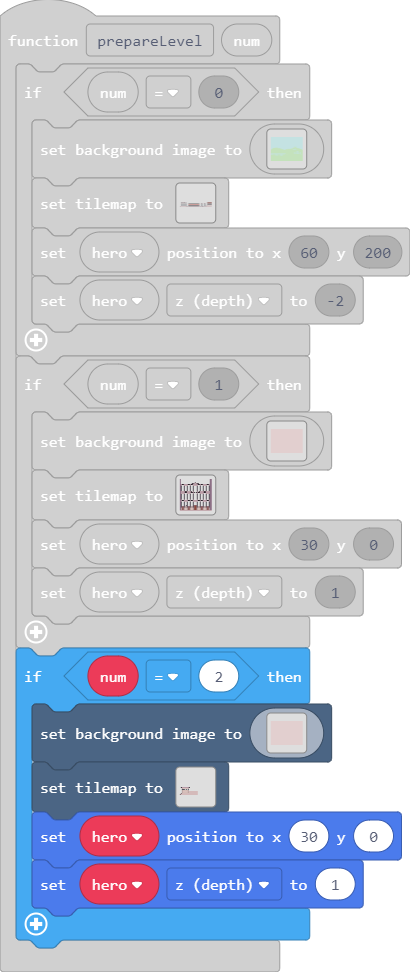
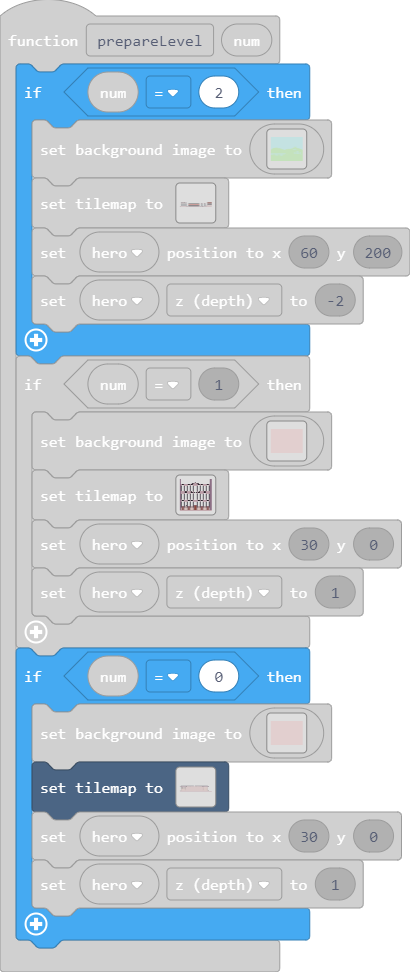
altar

Changed region(s): [[0.0585, 0.6481, 0.9951, 0.9568], [0.0293, 0.0617, 0.761, 0.4012]]

diff --git a/main.ts b/main.ts
@@ -1608,7 +1608,7 @@ controller.right.onEvent(ControllerButtonEvent.Released, function () {
     )
 })
 function prepareLevel (num: number) {
-    if (num == 0) {
+    if (num == 2) {
         scene.setBackgroundImage(img`
 9 9 9 9 9 9 9 9 9 9 9 9 9 9 9 9 9 9 9 9 9 9 9 9 9 9 9 9 9 9 9 9 9 9 9 9 9 9 9 9 9 9 9 9 9 9 9 9 9 9 9 9 9 9 9 9 9 9 9 9 9 9 9 9 9 9 9 9 9 9 9 9 9 9 9 9 9 9 9 9 9 9 9 9 9 9 9 9 9 9 9 9 9 9 9 9 9 9 9 9 9 9 9 9 9 9 9 9 9 9 9 9 9 9 9 9 9 9 9 9 9 9 9 9 9 9 9 9 9 9 9 9 9 9 9 9 9 9 9 9 9 9 9 9 9 9 9 9 9 9 9 9 9 9 9 9 9 9 9 9 
 9 9 9 9 9 9 9 9 9 9 9 9 9 9 9 9 9 9 9 9 9 9 9 9 9 9 9 9 9 9 9 9 9 9 9 9 9 9 9 9 9 9 9 9 9 9 9 9 9 9 9 9 9 9 9 9 9 9 9 9 9 9 9 9 9 9 9 9 9 9 9 9 9 9 9 9 9 9 9 9 9 9 9 9 9 9 9 9 9 9 9 9 9 9 9 9 9 9 9 9 9 9 9 9 9 9 9 9 9 9 9 9 9 9 9 9 9 9 9 9 9 9 9 9 9 9 9 9 9 9 9 9 9 9 9 9 9 9 9 9 9 9 9 9 9 9 9 9 9 9 9 9 9 9 9 9 9 9 9 9 
@@ -1922,7 +1922,7 @@ function prepareLevel (num: number) {
         hero.setPosition(30, 0)
         hero.z = 1
     }
-    if (num == 2) {
+    if (num == 0) {
         scene.setBackgroundImage(img`
 3 3 3 3 3 3 3 3 3 3 3 3 3 3 3 3 3 3 3 3 3 3 3 3 3 3 3 3 3 3 3 3 3 3 3 3 3 3 3 3 3 3 3 3 3 3 3 3 3 3 3 3 3 3 3 3 3 3 3 3 3 3 3 3 3 3 3 3 3 3 3 3 3 3 3 3 3 3 3 3 3 3 3 3 3 3 3 3 3 3 3 3 3 3 3 3 3 3 3 3 3 3 3 3 3 3 3 3 3 3 3 3 3 3 3 3 3 3 3 3 3 3 3 3 3 3 3 3 3 3 3 3 3 3 3 3 3 3 3 3 3 3 3 3 3 3 3 3 3 3 3 3 3 3 3 3 3 3 3 3 
 3 3 3 3 3 3 3 3 3 3 3 3 3 3 3 3 3 3 3 3 3 3 3 3 3 3 3 3 3 3 3 3 3 3 3 3 3 3 3 3 3 3 3 3 3 3 3 3 3 3 3 3 3 3 3 3 3 3 3 3 3 3 3 3 3 3 3 3 3 3 3 3 3 3 3 3 3 3 3 3 3 3 3 3 3 3 3 3 3 3 3 3 3 3 3 3 3 3 3 3 3 3 3 3 3 3 3 3 3 3 3 3 3 3 3 3 3 3 3 3 3 3 3 3 3 3 3 3 3 3 3 3 3 3 3 3 3 3 3 3 3 3 3 3 3 3 3 3 3 3 3 3 3 3 3 3 3 3 3 3 
@@ -2046,24 +2046,24 @@ function prepareLevel (num: number) {
 3 3 3 3 3 3 3 3 3 3 3 3 3 3 3 3 3 3 3 3 3 3 3 3 3 3 3 3 3 3 3 3 3 3 3 3 3 3 3 3 3 3 3 3 3 3 3 3 3 3 3 3 3 3 3 3 3 3 3 3 3 3 3 3 3 3 3 3 3 3 3 3 3 3 3 3 3 3 3 3 3 3 3 3 3 3 3 3 3 3 3 3 3 3 3 3 3 3 3 3 3 3 3 3 3 3 3 3 3 3 3 3 3 3 3 3 3 3 3 3 3 3 3 3 3 3 3 3 3 3 3 3 3 3 3 3 3 3 3 3 3 3 3 3 3 3 3 3 3 3 3 3 3 3 3 3 3 3 3 3 
 `)
         tiles.setTilemap(tiles.createTilemap(
[2 lines of base64/hex data omitted]
             img`
-. . . . . . . . . . . . . . . . . . . . . . . . . . . . . . . . 
-. . . . . . . . . . . . . . . . . . . . . . . . . . . . . . . . 
-. . . . . . . . . . . . . . . . . . . . . . . . . . . . . . . . 
-. . . . . . . . . . . . . . . . . . . . . . . . . . . . . . . . 
-. . . . . . . . . . . . . . . . . . . . . . . . . . . . . . . . 
-. . . . . . . . . . . . . . . . . . . . . . . . . . . . . . . . 
-. . . . . . . . . . . . . . . . . . . . . . . . . . . . . . . . 
-. . . . . . . . . . . . . . . . . . . . . . . . . . . . . . . . 
-. . . . . . . . . . . . . . . . . . . . . . . . . . . . . . . . 
-. . . . . . . . . . . . . . . . . . . . . . . . . . . . . . . . 
-. . . . . . . . . . . . . . . . . . . . . . . . . . . . . . . . 
-. . . . . . . . . . . . . . . . . . . . . . . . . . . . . . . . 
-. . . . . . . . . . . . . . . . . . . . . . . . . . . . . . . . 
-. . . . . . . . . . . . . . . . . . . . . . . . . . . . . . . . 
-. . . . . . . . . . . . . . . . . . . . . . . . . . . . . . . . 
-. . . . . . . . . . . . . . . . . . . . . . . . . . . . . . . . 
+. . . . . . . . . . . . . . . . . . . . . . . . . . . . . . . . . . . . . . . . . . . . . . . . 
+. . . . . . . . . . . . . . . . . . . . . . . . . . . . . . . . . . . . . . . . . . . . . . . . 
+. . . . . . . . . . . . . . . . . . . . . . . . . . . . . . . . . . . . . . . . . . . . . . . . 
+. . . . . . . . . . . . . . . . . . . . . . . . . . . . . . . . . . . . . . . . . . . . . . . . 
+. . . . . . . . . . . . . . . . . . . . . . . . . . . . . . . . . . . . . . . . . . . . . . . . 
+. . . . . . . . . . . . . . . . . . . . . . . . . . . . . . . . . . . . . . . . . . . . . . . . 
+. . . . . . . . . . . . . . . . . . . . . . . . . . . . . . . . . . . . . . . . . . . . . . . . 
+. . . . . . . . . . . . . . . . . . . . . . . . . . . . . . . . . . . . . . . . . . . . . . . . 
+. . 2 2 2 2 2 2 2 2 2 2 2 2 2 2 2 2 2 2 2 2 2 2 2 2 2 2 2 2 2 2 2 2 2 2 2 2 2 2 2 2 . . . . . . 
+. . . . . . . . . . . . . . . . . . . . . . . . . . . . . . . . . . . . . . . . . . . . . . . . 
+. . . . . . . . . . . . . . . . . . . . . . . . . . . . . . . . . . . . . . . . . . . . . . . . 
+. . . . . . . . . 2 2 2 2 2 2 2 2 2 2 2 2 2 2 2 2 2 2 2 2 2 2 2 2 2 2 . . . . . . . . . . . . . 
+. . . . . . . . . . . . . . . . . . . . . . . . . . . . . . . . . . . . . . . . . . . . . . . . 
+. . . . . . . . . . . . . . . . . . . . . . . . . . . . . . . . . . . . . . . . . . . . . . . . 
+. . . . . . . . . . . . . . . . . . . . . . . . . . . . . . . . . . . . . . . . . . . . . . . . 
+2 2 2 2 2 2 2 2 2 2 2 2 2 2 2 2 2 2 2 2 2 2 2 2 2 2 2 2 2 2 2 2 2 2 2 2 2 2 2 2 2 2 2 2 2 2 2 2 
 `,
             [myTiles.tile0,sprites.castle.tileGrass2,sprites.castle.tileDarkGrass2,sprites.castle.tilePath5,myTiles.tile1,myTiles.tile2,myTiles.tile3,myTiles.tile4,myTiles.tile5,myTiles.tile6,myTiles.tile7,myTiles.tile9,myTiles.tile10,myTiles.tile11,myTiles.tile12,myTiles.tile13,myTiles.tile14,myTiles.tile15,myTiles.tile16,myTiles.tile17,myTiles.tile19,myTiles.tile20,myTiles.tile21,myTiles.tile22,myTiles.tile23,myTiles.tile24,myTiles.tile25,myTiles.tile26,myTiles.tile27,myTiles.tile28,myTiles.tile29,myTiles.tile30,myTiles.tile31,myTiles.tile32,myTiles.tile33,myTiles.tile34,myTiles.tile35,myTiles.tile36,myTiles.tile37,myTiles.tile38,myTiles.tile39,myTiles.tile40,myTiles.tile41,sprites.castle.tileGrass1,myTiles.tile42,myTiles.tile43,myTiles.tile44,myTiles.tile45,myTiles.tile46,myTiles.tile47,myTiles.tile48,myTiles.tile49,myTiles.tile50,myTiles.tile51,myTiles.tile52,myTiles.tile53,myTiles.tile54,myTiles.tile55,myTiles.tile56,myTiles.tile57,myTiles.tile58,myTiles.tile59,myTiles.tile60,myTiles.tile61,myTiles.tile62,myTiles.tile63,myTiles.tile64,myTiles.tile65,myTiles.tile66,myTiles.tile67,myTiles.tile68,myTiles.tile69,myTiles.tile70,myTiles.tile71,myTiles.tile72,myTiles.tile73],
             TileScale.Sixteen
